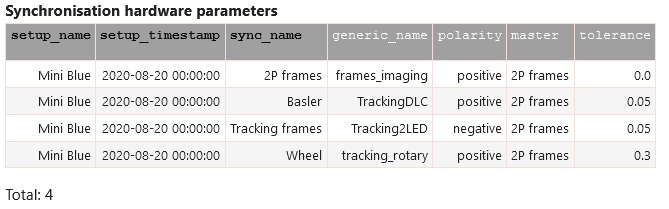
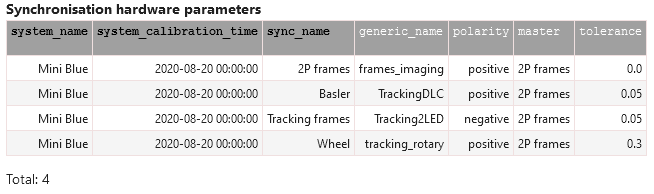
Updating for new imaging

diff --git a/docs/imaging/how-to-add-sessions.rst b/docs/imaging/how-to-add-sessions.rst
@@ -9,7 +9,7 @@ Imaging:  Web GUI
 
     - Go to *BaseFolder* -> *Add BaseFolder*
     
-3. Fill out the details in the mask on that website. Make sure you get the session logic *combined* right. It determines how (meta)sessions are created in the database. This only has relevance for data acquired with scanimage (miniscope, ...). For femtonics recordings this function is not implemented and has to remain on "no" (not combined). :ref:`Imaging ingestion combined`
+3. Fill out the details in the mask on that website. Make sure you get the session logic *combined* right. It determines how sessions and recordings are created in the database. This only has relevance for data acquired with scanimage (miniscope, ...). For femtonics recordings this function is not implemented and has to remain on "no" (not combined). :ref:`Imaging ingestion combined`
 
     - **Experimenter:** select your username from the list.
     
@@ -30,9 +30,9 @@ Imaging:  Web GUI
 
 4. Wait for the background worker process to run (no user interaction required)
 
-5. Check the *Sessions* subpage in the web GUI:
+5. Check the *Search -> Search Recordings (Imaging)* subpage in the web GUI:
   
-  - Your newly added sessions should pop up there.
+  - Your newly added recordings should pop up there.
   
   - If you have deep lab cut (DLC) data, you have to associate a `Model | ProcessingMethod` combination on a per session basis. Valid selections will be shown to you when you click on the blue `DLC` button. After that (or if you do not have any DLC data), you can click on the red `None` icon to fill out your session type and apparatus info. This will make sure that the correct session and apparatus information is found by downstream processes. 
   
@@ -46,7 +46,7 @@ Imaging:  Web GUI
 
 9. Datajoint will re-ingest the BaseFolder, but only add information that has been missing before (the imaging analysis (**Suite2P**) output.
  
-10. Lean back and watch things being calculated (web GUI: *Jobs* -> *Jobs Imaging*).
+10. Lean back and watch things being calculated (web GUI: *Miscellanious* -> *Jobs*).
 
 11. Go through the notebooks to make sense of your analysis results or use the [Session Viewer GUI](https://github.com/kavli-ntnu/dj-moser-imaging/tree/master/viewer) to inspect the results (the GUI is work in progress, so don't expect too much right now).
 
@@ -57,12 +57,12 @@ Imaging:  Web GUI
 Suite2p: Combined logic
 ^^^^^^^^^^^^^^^^^^^^^^^^^^^^^^^^^^^^^
 
-**Combined** addresses how a group of **Sessions** are analysed via Suite2p. 
+**Combined** addresses how a group of **Recordings** are analysed via Suite2p. 
 
 Summary:
 
-- If ``combined == yes``, then all **Sessions** in the **Basefolder** will be grouped as a single **MetaSession** and analysed together, resulting in consistent unit IDs. 
-- If ``combined == no``, then each **Session** will be assigned to its own **MetaSession**, and be analysed *separately*, such that a unit ID in the first session will not necessarily correspond to the same unit ID in another session
+- If ``combined == yes``, then all **Recordings** in the **Basefolder** will be grouped as a single **Session** and analysed together, resulting in consistent unit IDs. 
+- If ``combined == no``, then each **Recording** will be assigned to its own **Session**, and be analysed *separately*, such that a unit ID in the first session will not necessarily correspond to the same unit ID in another session
 
 Details:
 
@@ -74,7 +74,7 @@ Details:
 
 - Scanimage then has two counters: ``_00001_00001.tif``. 
 
-  - The first counter refers to how many times a user clicked abort or recorded a full session and **then started again under the same name**. This can happen, for example, if the pre-set number of acquired frames was estimated too low and the experimenter wishes to extend the current session. Or if there was a small problem with the recording (the subject twisted itself, ...) and that current recording had to be interrupted briefly. This has nothing to do with the *combined* logic and these interrupts are considered to be insignificant and have no relevance for downstream processing. So no matter how many times the experimenter clicked stop and started again, this will all be stitched together and count as *the same* **Session**. 
+  - The first counter refers to how many times a user clicked abort or recorded a full recording and **then started again under the same name**. This can happen, for example, if the pre-set number of acquired frames was estimated too low and the experimenter wishes to extend the current session. Or if there was a small problem with the recording (the subject twisted itself, ...) and that current recording had to be interrupted briefly. This has nothing to do with the *combined* logic and these interrupts are considered to be insignificant and have no relevance for downstream processing. So no matter how many times the experimenter clicked stop and started again, this will all be stitched together and count as *the same* **Session**. 
   
   - The second counter refers to the actual file number if tif splitting is activated within scanimage, e.g. if the experimenter specified that a maximum of 2000 frames should be saved within one file. 
   
@@ -109,12 +109,12 @@ If you re-ingested the imaging analysis output once and then change something fr
 If things fail
 ^^^^^^^^^^^^^^^^^^^^
 
-- Check the Imaging `Website`_ (*Jobs* -> *Jobs Imaging*)
+- Check the Imaging `Website`_ (*Miscellanious* -> *Jobs*)
 
-- If there was an error in the ``MakeDatasetsSessions`` table (so during the basic ingest), make sure the computer that runs the ``MakeDatasetsSessions`` job knows about the file server that the raw data was saved.
+- If there was an error in the ``MakeDatasetsRecordings`` table (so during the basic ingest), make sure the computer that runs the ``MakeDatasetsRecordings`` job knows about the file server that the raw data was saved.
 
 - Ask Horst or Simon on Teams or via email. 
 
 
 
-.. _Website: http://2p.neuroballs.net:5000
+.. _Website: datajoint.kavli.org.ntnu.no

diff --git a/docs/imaging/sync.rst b/docs/imaging/sync.rst
@@ -21,15 +21,15 @@ Synchronisation data is stored in the ``Sync`` table and its sub-tables.
 .. figure:: /_static/imaging/schemas/erd_sync.png
    :alt: Synchronisation section of the imaging schema
 
-Each Session is generated by a **Setup** (:ref:`Imaging Terminology Setup`), which is tracked in the ``Setup`` table. Each entry in the ``Setup`` table has a list of the types of synchronisation data (and how to interpret it) that might be generated in the table ``Setup.Sync``.::
+Each Session is generated by a **System** (:ref:`Imaging Terminology Setup`), which is tracked in the ``SystemConfig`` table. Each entry in the ``SystemConfig`` table has a list of the types of synchronisation data (and how to interpret it) that might be generated in the table ``SystemConfig.Sync``.::
 
-  Setup.Sync & {"setup_name":"Mini Blue", "setup_timestamp":"2020-08-20 00:00:00"}
+  SystemConfig.Sync & {"system_name":"Mini Blue", "system_calibration_time":"2020-08-20 00:00:00"}
 
 .. figure:: /_static/imaging/sync/setup-sync-table.png
    :alt: Contents of the ``Setup.Sync`` table
 
 
-When a new Session is ingested, the synchronisation data is inserted into the ``Sync`` table and its part tables. Each Session has one (or more) entries in the ``Sync`` table, corresponding to a single time series, from a single instrument, with each time series being identified by a ``sync_name``.
+When a new Recording is ingested, the synchronisation data is inserted into the ``Sync`` table and its part tables. Each Recording has one (or more) entries in the ``Sync`` table, corresponding to a single time series, from a single instrument, with each time series being identified by a ``sync_name``.
 
 The actual timestamps themselves are stored in the column ``sync_data`` of the ``Sync`` table. The values are stored in whatever unit the underlying synchronisation system stores, which may be converted into seconds via the conversion factor in ``sample_rate``.
 
@@ -40,7 +40,7 @@ The actual timestamps themselves are stored in the column ``sync_data`` of the `
 Sync Names and Generic Names
 --------------------------------
 
-The ``Setup.Sync`` entries have two related attributes:
+The ``SystemConfig.Sync`` entries have two related attributes:
 
 * ``sync_name``
 * ``generic_name``
@@ -54,20 +54,20 @@ The distinction here is between what the *raw data files* call a synchronisation
 
 In most cases, users should not need to extract data from the ``Sync`` tables directly: timestamp information is inserted into the more common tables (``Tracking.Linear``, ``Tracking.OpenField``, ``SignalTracking``).
 
-When the Synchronisation table is populated, it will look up what **Setup** was used to record the **Session** (via ``MetaSession.Setup``), and then look up the appropriate names for each kind of sync stream (via ``Setup.Sync``). This is demonstrated in the example below. A utility function is also provided for the same purpose (``utils.get_sync``)
+When the Synchronisation table is populated, it will look up what **SystemCOnfig** was used to record the **Recording** (via ``Session.SystemConfig``), and then look up the appropriate names for each kind of sync stream (via ``SystemConfig.Sync``). This is demonstrated in the example below. A utility function is also provided for the same purpose (``utils.get_sync``)
 
 .. code-block:: python
     
     # Use an arbitrary key to the `Cell.Traces` table
-    key = {"session_name":"d6ba671faad74695", "cell_id":3, "channel":"primary"}
+    key = {"recording_name":"d6ba671faad74695", "cell_id":3, "channel":"primary"}
     df_f = (Cell.Traces & key).fetch1("df_f")
 
-    # Identify what Setup was in use
-    setup = (Session * MetaSession.Setup & key).fetch1()
+    # Identify what system was in use
+    system = (Recording * Session.SystemConfig & key).fetch1()
 
     # Identify what sync name we should be looking for
     generic_name = "frames_imaging" # cell.Traces data -> it's from the 2p data
-    sync_name = (Setup.Sync & setup & {"generic_name":generic_name}).fetch1("sync_name")
+    sync_name = (SystemConfig.Sync & system & {"generic_name":generic_name}).fetch1("sync_name")
 
     # Get the sync data and sampling rate, and convert from samples to seconds
     sync_data_samples, fs = (Sync & key & {"sync_name":sync_name}).fetch1("sync_data", "sample_rate")

diff --git a/docs/imaging/basics.rst b/docs/imaging/basics.rst
@@ -24,11 +24,11 @@ Less common processes
 
 A few less common activities to be aware of:
 
-* If a new **setup** or **scope** is developed and used, new entries should be added to the pipeline to represent these physical entities
+* If a new **system** or **scope** is developed and used, new entries should be added to the pipeline to represent these physical entities
   
   - A ``scope`` is the microscope objective - it (partially) controls factors such as field of view, and the unwarping routine used to correct for the distortion of the field of view
   
-  - A ``setup`` is pretty much everything else in the room *except* the arena and the subject. It keeps track of the most recent calibration data, hardware configuration, etc. 
+  - A ``system`` is pretty much everything else in the room *except* the arena and the subject. It keeps track of the most recent calibration data, hardware configuration, etc. 
 
 * New subject implants can be recorded in the ``Implant`` table. There is currently no user interface other than code to work with this table
 
@@ -99,7 +99,7 @@ You can find the documentation for how to use the `Suite2p GUI <https://suite2p.
 
 * While the pipeline is working hard  adding your cells, you can take a well deserved break and check the progress by, for example, following these steps: 
 
-    * Identify the *Session hash* of your session by filtering under *Sessions* in the imaging web GUI. 
+    * Identify the *Recording hash* of your session by filtering under *Recordings* in the imaging web GUI. 
     * Execute these commands within a jupyter notebook, using your session hash between the double quotes:
 
 

diff --git a/docs/imaging/dlc.rst b/docs/imaging/dlc.rst
@@ -20,7 +20,7 @@ The DLC implementation in the imaging pipeline is shown below
 
 * ``DLCTrackingType``
 
-  Determines which kinds of session (e.g. a 1D wheel session vs a 2D open field session) will be processed beyond the ``TrackingRaw`` table. At present, only `*openfield* sessions are supported. 
+  Determines which kinds of recording (e.g. a 1D wheel recording vs a 2D open field recording) will be processed beyond the ``TrackingRaw`` table. At present, only `*openfield* recording are supported. 
 
 * ``DLCModel``
 
@@ -34,9 +34,9 @@ The DLC implementation in the imaging pipeline is shown below
   
   Maps a DLCTrackingProcessingMethod to a DLCModel. This mapping is important to ensure that the expected data columns (matching specific ``TrackedBodyPart``) are available (and named correctly!).
 
-* ``SessionDLC``
+* ``RecordingDLC``
 
-  Maps a specific Sessionto a specific Model / Processing Method.
+  Maps a specific Recording to a specific Model / Processing Method.
 
 * ``TrackedBodyPart``
 
@@ -147,7 +147,7 @@ If you run DLC via the command line instead, then these manual steps are:
 
 .. code-block:: bash
 
-    metasession_directory
+    session_directory
     |- dlc_{basename}
         |- dlc_config_file.yml
         |- {modelname}.h5

diff --git a/docs/imaging/folder-logic.rst b/docs/imaging/folder-logic.rst
@@ -16,10 +16,10 @@ The **2Pminiscope_A** import logic is as follows:
 
     - ``basename_filenumber_filenumber.tif``
 
-- Wavesurfer synchronisation files (``basename_session.h5``)
-- Tracking 1D files (``basename_session_WHEEL.csv``)
-- Tracking 2D files (``basename_session.csv``)
-- Tracking videos (``basename_session.avi``)
+- Wavesurfer synchronisation files (``basename_recording.h5``)
+- Tracking 1D files (``basename_recording_WHEEL.csv``)
+- Tracking 2D files (``basename_recording.csv``)
+- Tracking videos (``basename_recording.avi``)
 - Subfolder(s) for analysis output of suite2p python package (see below for suite2p directory structure)
 
 *Example:*
@@ -45,7 +45,7 @@ Miniscope preprocessed
 
 The ingestion routine is similar to that of the **Miniscope** above. Some major differences include:
 
-1. For preprocessed tif stack, the tif files are prepended with ``_preproc`` - e.g. ``basename_session_filenumber_preproc.tif``
+1. For preprocessed tif stack, the tif files are prepended with ``_preproc`` - e.g. ``basename_recording_filenumber_preproc.tif``
 2. The raw tif files are expected to be present as well
 3. For preprocessed tracking data, the name of tracking file is appended with ``_preproc`` - e.g. ``basename_preproc.csv``
 

diff --git a/docs/imaging/session-viewer-gui.rst b/docs/imaging/session-viewer-gui.rst
@@ -6,6 +6,8 @@ Imaging: Session Viewer
 
 Session Viewer is a desktop application for screening individual sessions in the Imaging pipeline. 
 
+**The session viewer has not yet been updated to work with the updated imaging pipeline. For data in the older pipeline, it remains functional**
+
 Installation
 ---------------
 
